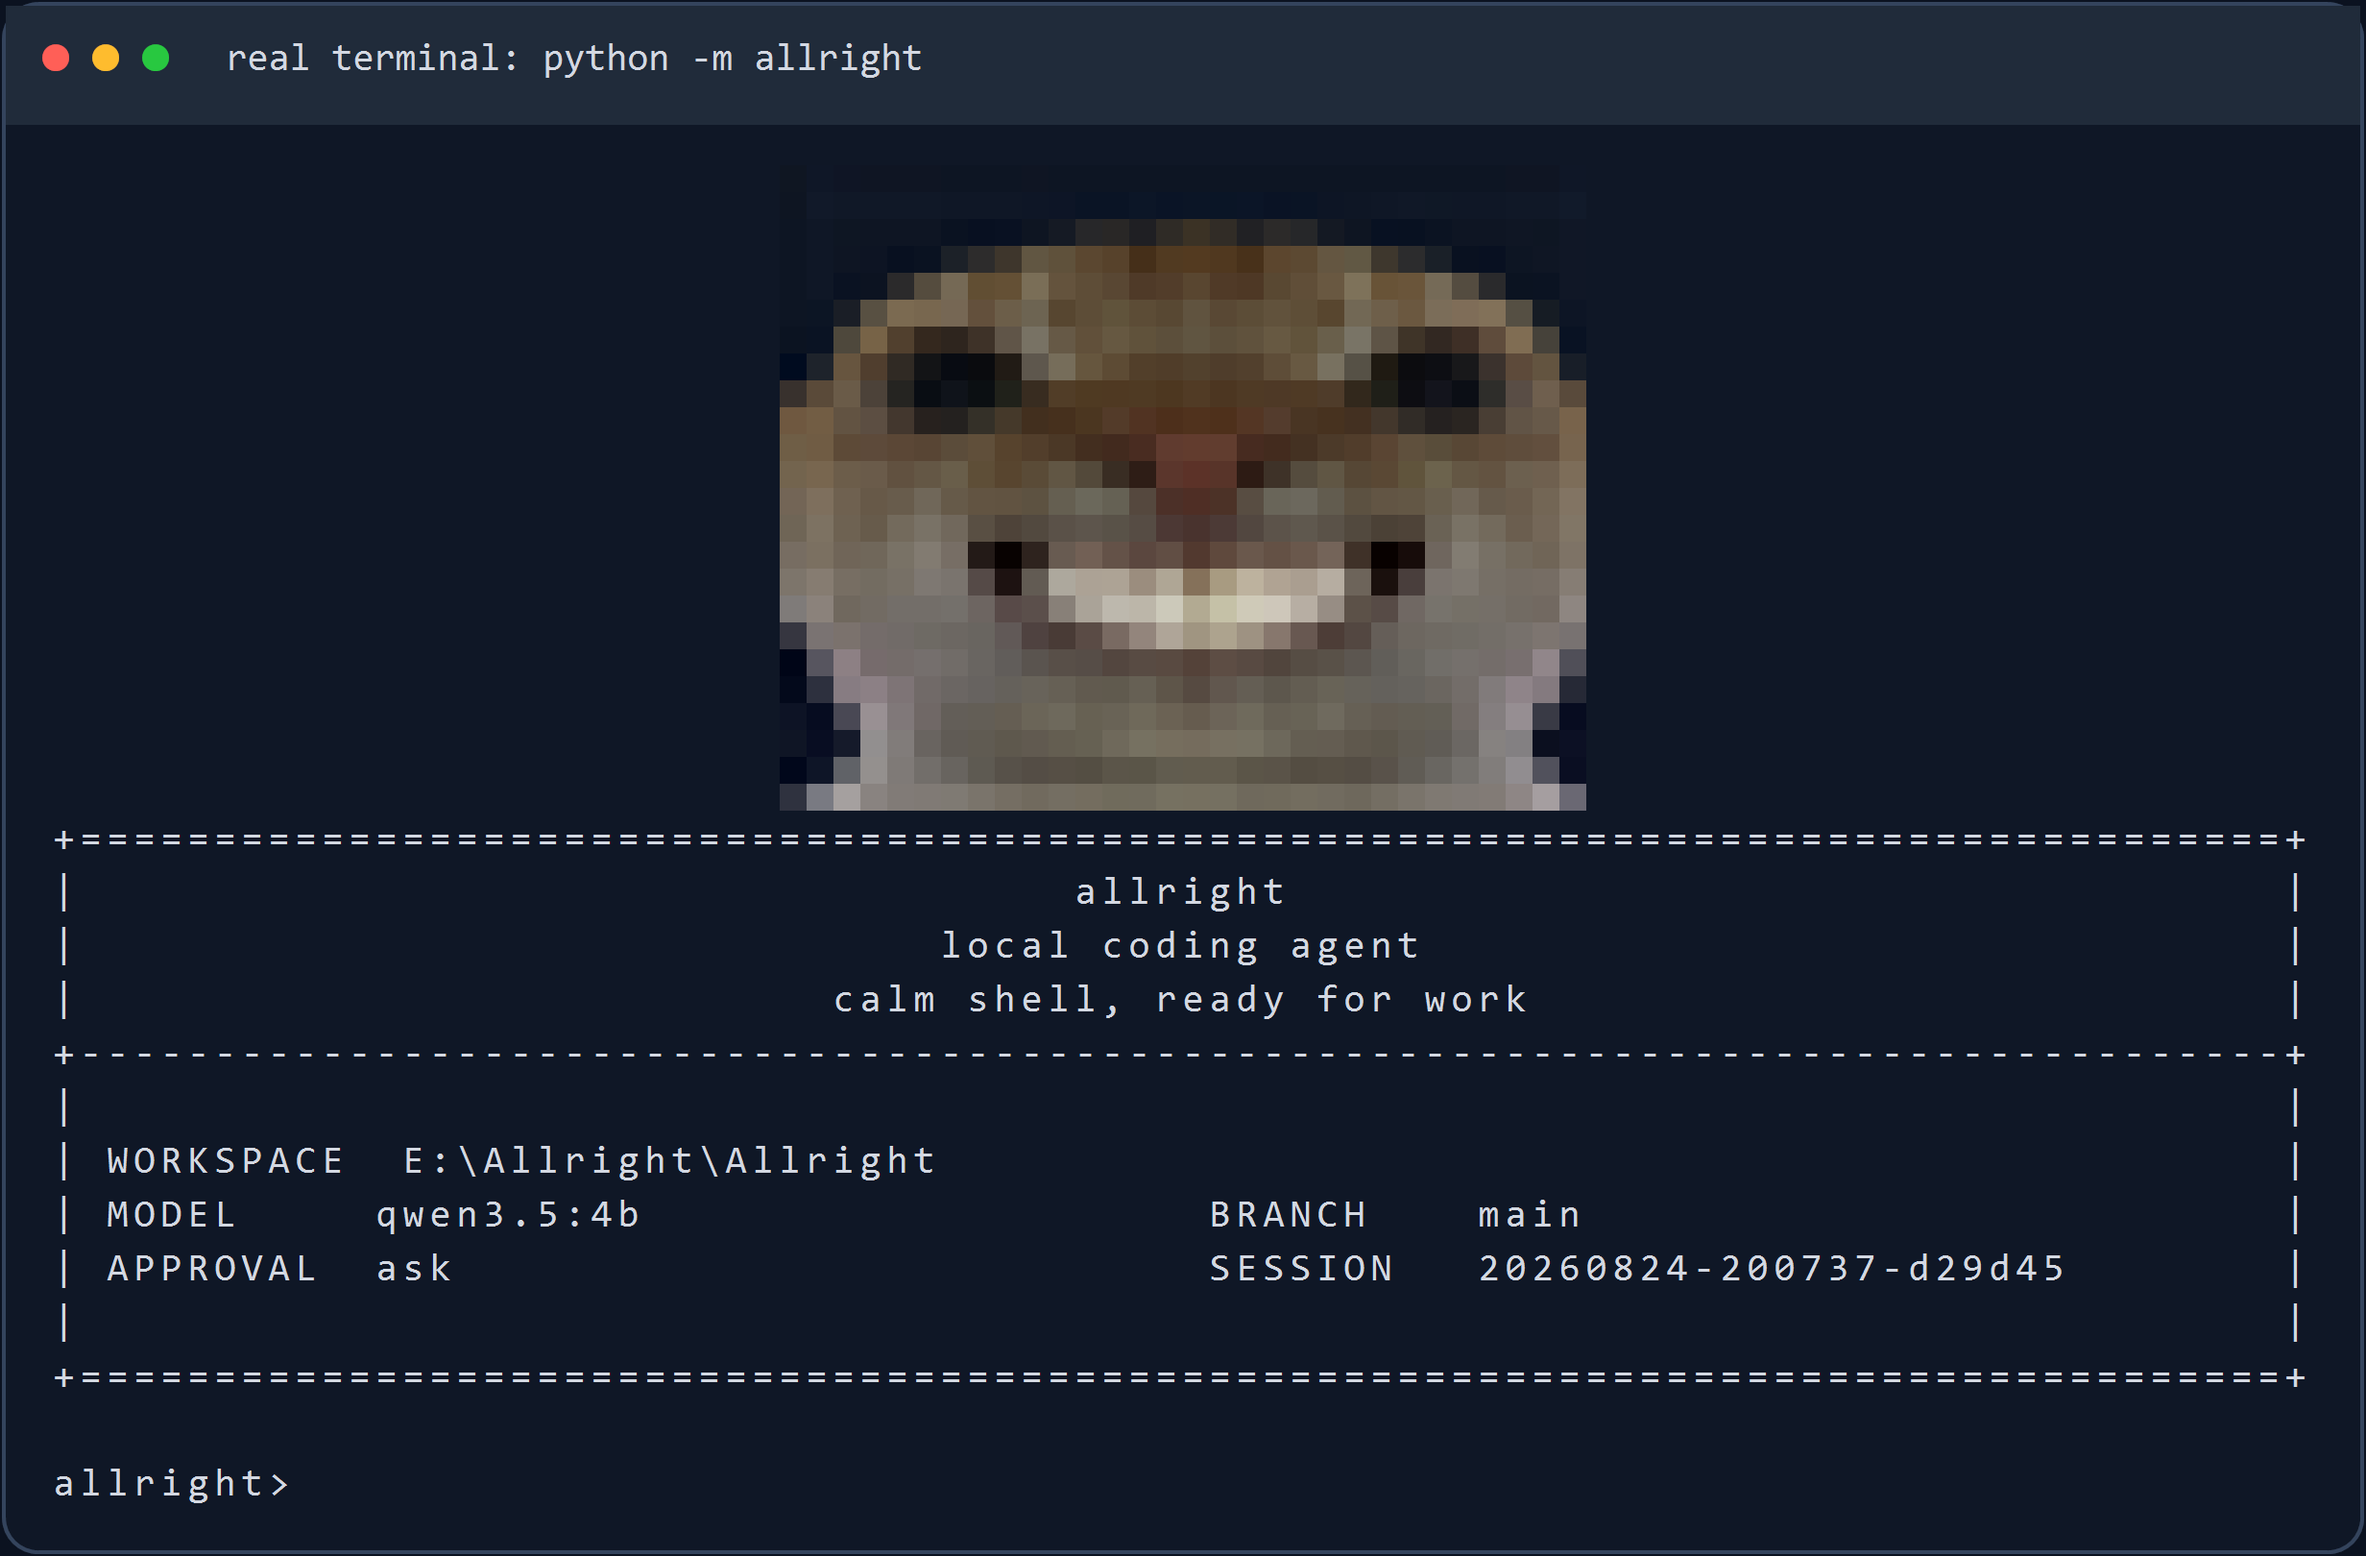
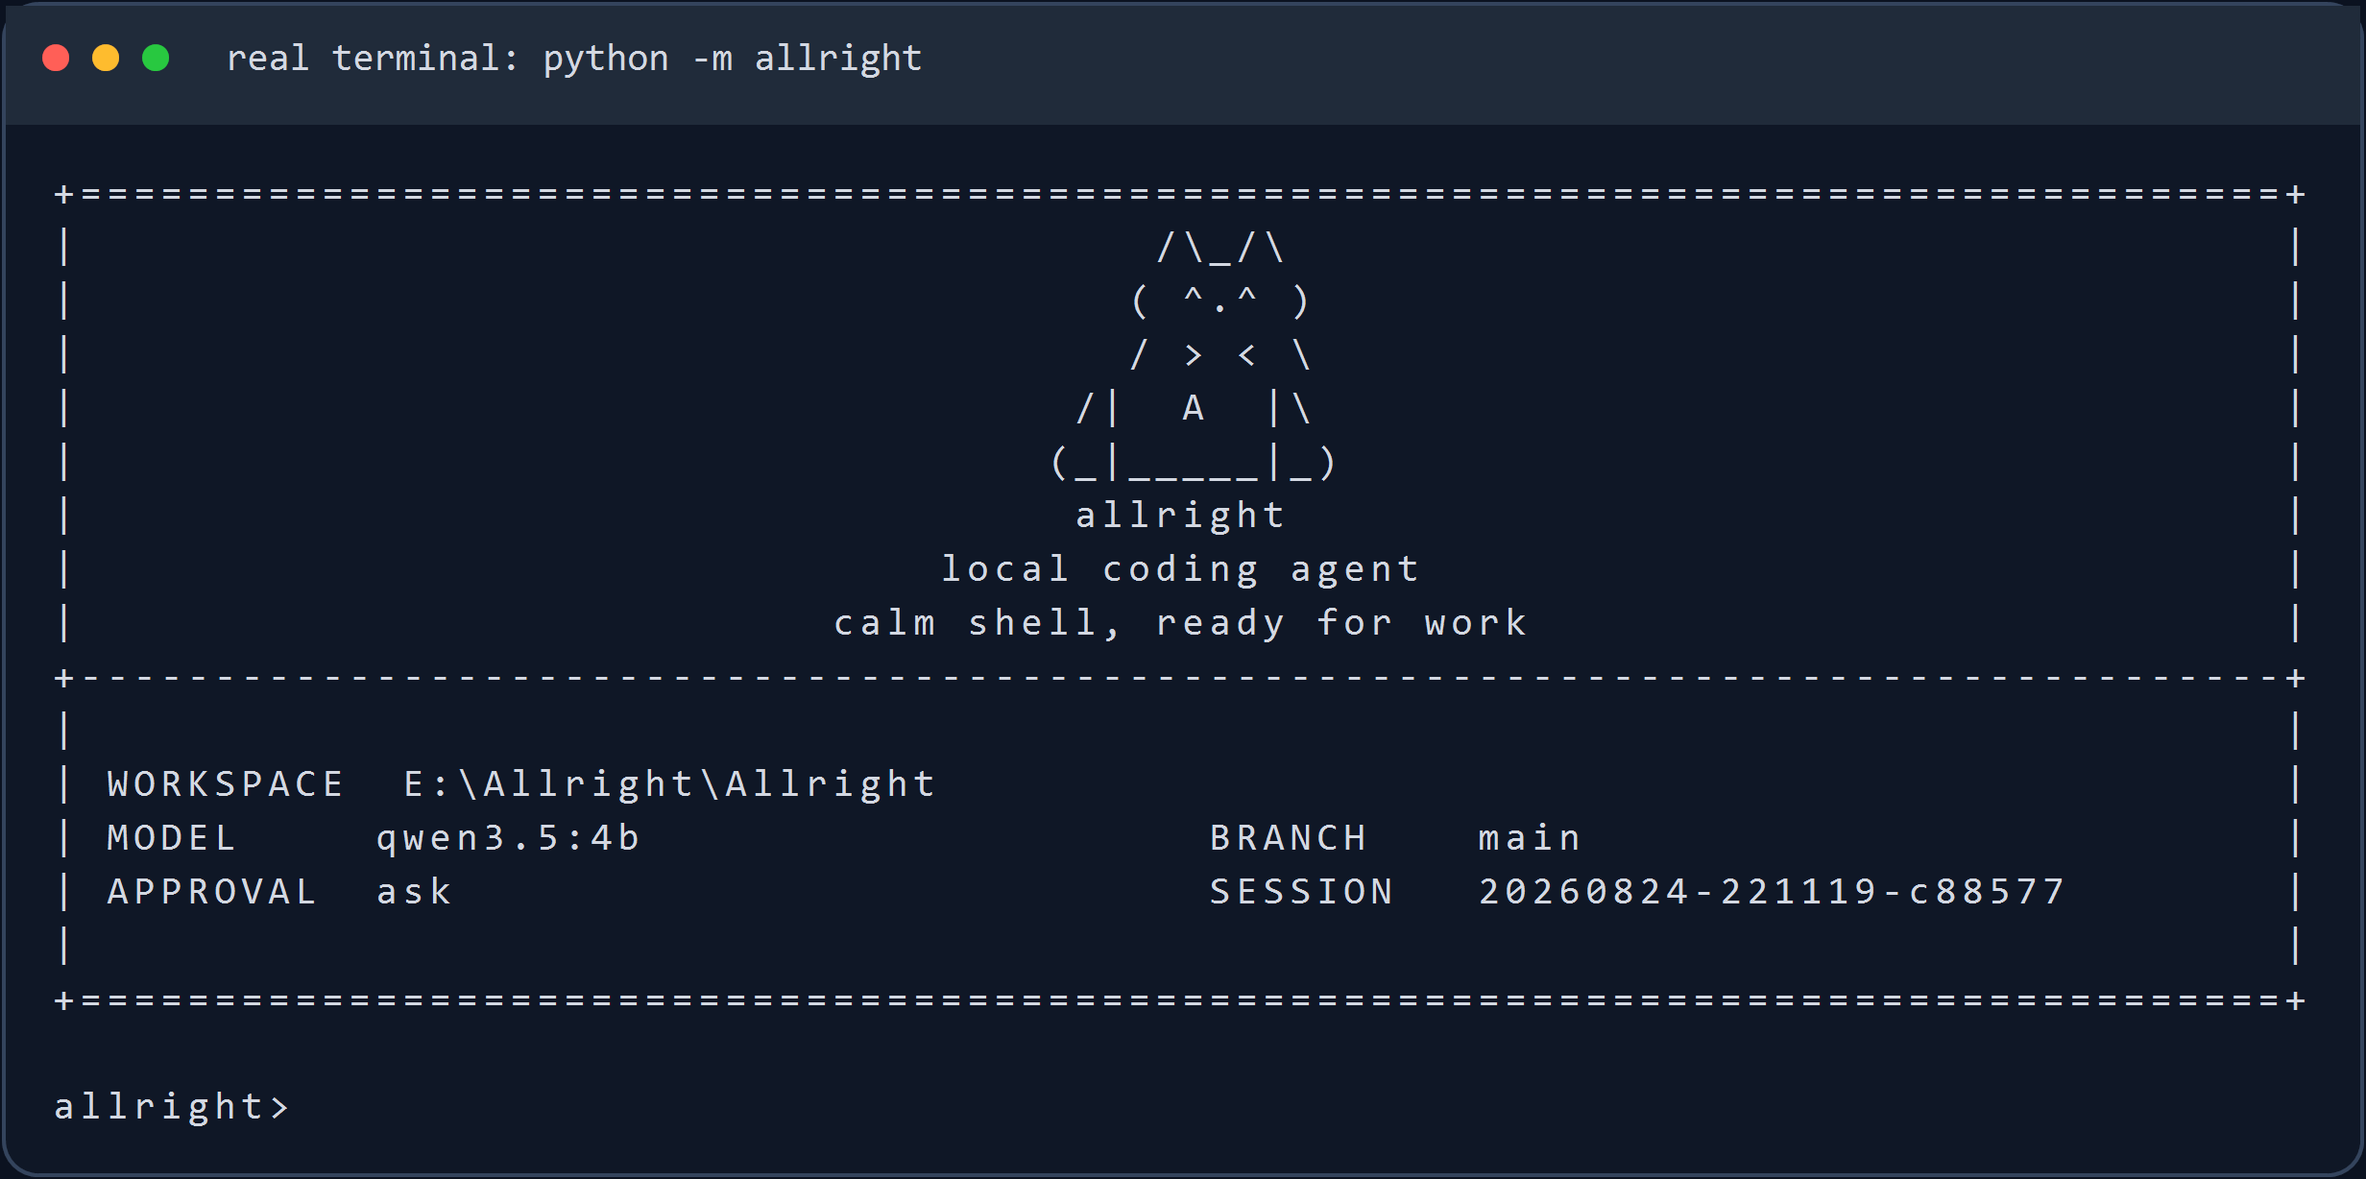
feat: replace image mascots with ASCII cat

diff --git a/allright/mascot.py b/allright/mascot.py
@@ -1,17 +1,38 @@
-"""Three-state terminal mascot rendering for the Allright CLI."""
+"""Three-state ASCII cat mascot rendering for the Allright CLI."""
 
 from __future__ import annotations
 
-import base64
 import os
-import shutil
 import sys
-from pathlib import Path
 
 MASCOT_NORMAL = "normal"
 MASCOT_ERROR = "error"
 MASCOT_OFFLINE = "offline"
 MASCOT_STATES = (MASCOT_NORMAL, MASCOT_ERROR, MASCOT_OFFLINE)
+
+MASCOT_ART = {
+    MASCOT_NORMAL: (
+        "    /\\_/\\",
+        "   ( ^.^ )",
+        "   / > < \\",
+        "  /|  A  |\\",
+        " (_|_____|_)",
+    ),
+    MASCOT_OFFLINE: (
+        " z  /\\_/\\",
+        "   ( -.- )",
+        "   /  ~  \\",
+        "  /|  A  |\\",
+        " (_|_____|_) x",
+    ),
+    MASCOT_ERROR: (
+        " !  /\\_/\\",
+        "   ( x.x )",
+        "   /  !  \\",
+        "  /|  A  |\\",
+        " (_|_____|_)",
+    ),
+}
 
 _OFFLINE_ERROR_MARKERS = (
     "api key",
@@ -32,11 +53,11 @@ _OFFLINE_ERROR_MARKERS = (
 )
 
 
-def mascot_asset_path(state: str, suffix: str = ".png") -> Path:
-    """Return the packaged asset path for one mascot state."""
+def mascot_art(state: str) -> str:
+    """Return the fixed-width ASCII cat for a mascot state."""
     if state not in MASCOT_STATES:
         raise ValueError(f"unknown mascot state: {state}")
-    return Path(__file__).parent / "assets" / "mascots" / f"{state}{suffix}"
+    return "\n".join(MASCOT_ART[state])
 
 
 def _error_chain_text(error: BaseException | None) -> str:
@@ -62,68 +83,20 @@ def classify_mascot_state(model_client=None, error: BaseException | None = None)
     return MASCOT_ERROR
 
 
-def _terminal_protocol(env) -> str:
-    override = str(env.get("ALLRIGHT_MASCOT_PROTOCOL", "")).strip().lower()
-    if override in {"off", "ansi", "kitty", "iterm"}:
-        return override
-    term = str(env.get("TERM", "")).lower()
-    term_program = str(env.get("TERM_PROGRAM", "")).lower()
-    if env.get("KITTY_WINDOW_ID") or "kitty" in term:
-        return "kitty"
-    if term_program in {"iterm.app", "wezterm"}:
-        return "iterm"
-    return "ansi"
-
-
-def _render_kitty(png_data: bytes) -> str:
-    encoded = base64.b64encode(png_data).decode("ascii")
-    chunks = [encoded[index : index + 4096] for index in range(0, len(encoded), 4096)]
-    rendered = []
-    for index, chunk in enumerate(chunks):
-        more = 1 if index < len(chunks) - 1 else 0
-        if index == 0:
-            rendered.append(f"\x1b_Ga=T,f=100,t=d,c=30,r=12,m={more};{chunk}\x1b\\")
-        else:
-            rendered.append(f"\x1b_Gm={more};{chunk}\x1b\\")
-    return "".join(rendered)
-
-
-def _render_iterm(png_data: bytes) -> str:
-    encoded = base64.b64encode(png_data).decode("ascii")
-    return f"\x1b]1337;File=inline=1;width=30;height=12;preserveAspectRatio=1:{encoded}\x07"
-
-
-def _mascot_indent(env, width: int = 30) -> str:
-    try:
-        columns = int(env.get("COLUMNS", ""))
-    except (TypeError, ValueError):
-        columns = 0
-    if columns <= 0:
-        columns = shutil.get_terminal_size((80, 20)).columns
-    return " " * max(0, (columns - width) // 2)
-
-
 def render_mascot(state: str, stream=None, env=None) -> str:
-    """Render a mascot using a native image protocol or packaged ANSI fallback."""
+    """Render a portable ASCII mascot without terminal image protocols."""
     if state not in MASCOT_STATES:
         raise ValueError(f"unknown mascot state: {state}")
     stream = stream or sys.stdout
     env = os.environ if env is None else env
-    protocol = _terminal_protocol(env)
-    if protocol == "off" or str(env.get("ALLRIGHT_MASCOT", "")).lower() in {"0", "false", "off"}:
+    disabled = str(env.get("ALLRIGHT_MASCOT", "")).lower() in {"0", "false", "off"}
+    legacy_protocol_off = str(env.get("ALLRIGHT_MASCOT_PROTOCOL", "")).lower() == "off"
+    if disabled or legacy_protocol_off:
         return ""
     force = str(env.get("ALLRIGHT_FORCE_MASCOT", "")).lower() in {"1", "true", "on"}
     if not force and not getattr(stream, "isatty", lambda: False)():
         return ""
-    indent = _mascot_indent(env)
-    if protocol == "kitty":
-        return indent + _render_kitty(mascot_asset_path(state).read_bytes())
-    if protocol == "iterm":
-        return indent + _render_iterm(mascot_asset_path(state).read_bytes())
-    if env.get("NO_COLOR") or str(env.get("TERM", "")).lower() == "dumb":
-        return f"[allright mascot: {state}]"
-    ansi = mascot_asset_path(state, ".ansi").read_text(encoding="utf-8").rstrip("\r\n")
-    return "\n".join(indent + line for line in ansi.splitlines())
+    return mascot_art(state)
 
 
 def print_mascot(state: str, stream=None, env=None) -> None:

diff --git a/tests/test_mascot.py b/tests/test_mascot.py
@@ -7,7 +7,7 @@ from allright.mascot import (
     MASCOT_NORMAL,
     MASCOT_OFFLINE,
     classify_mascot_state,
-    mascot_asset_path,
+    mascot_art,
     render_mascot,
 )
 from allright.providers.clients import AnthropicCompatibleModelClient, OpenAICompatibleModelClient
@@ -18,10 +18,15 @@ class ApiClient:
         self.api_key = api_key
 
 
-def test_mascot_assets_are_packaged_for_each_state():
+def test_ascii_mascot_exists_for_each_state():
     for state in (MASCOT_NORMAL, MASCOT_ERROR, MASCOT_OFFLINE):
-        assert mascot_asset_path(state).is_file()
-        assert mascot_asset_path(state, ".ansi").is_file()
+        art = mascot_art(state)
+        assert len(art.splitlines()) == 5
+        assert "A" in art
+
+    assert "^.^" in mascot_art(MASCOT_NORMAL)
+    assert "-.-" in mascot_art(MASCOT_OFFLINE)
+    assert "x.x" in mascot_art(MASCOT_ERROR)
 
 
 def test_mascot_state_uses_offline_for_missing_api_key_or_network_error():
@@ -35,19 +40,16 @@ def test_mascot_state_uses_error_for_other_failures():
     assert classify_mascot_state(ApiClient("sk-test")) == MASCOT_NORMAL
 
 
-def test_ansi_mascot_can_be_forced_for_snapshot_or_pipe_output():
+def test_ascii_mascot_can_be_forced_for_snapshot_or_pipe_output():
     rendered = render_mascot(
         MASCOT_NORMAL,
         stream=StringIO(),
         env={
             "ALLRIGHT_FORCE_MASCOT": "1",
-            "ALLRIGHT_MASCOT_PROTOCOL": "ansi",
-            "COLUMNS": "80",
         },
     )
-    assert "\x1b[38;2;" in rendered
-    assert "▀" in rendered
-    assert all(line.startswith(" " * 25) for line in rendered.splitlines())
+    assert rendered == mascot_art(MASCOT_NORMAL)
+    assert "\x1b" not in rendered
 
 
 def test_mascot_stays_quiet_for_non_tty_and_supports_opt_out():
@@ -56,7 +58,7 @@ def test_mascot_stays_quiet_for_non_tty_and_supports_opt_out():
         render_mascot(
             MASCOT_NORMAL,
             stream=StringIO(),
-            env={"ALLRIGHT_FORCE_MASCOT": "1", "ALLRIGHT_MASCOT_PROTOCOL": "off"},
+            env={"ALLRIGHT_FORCE_MASCOT": "1", "ALLRIGHT_MASCOT": "off"},
         )
         == ""
     )

diff --git a/allright/cli.py b/allright/cli.py
@@ -12,7 +12,7 @@ import sys
 import textwrap
 
 from .config import load_project_env, provider_env
-from .mascot import MASCOT_NORMAL, classify_mascot_state, print_mascot
+from .mascot import MASCOT_NORMAL, classify_mascot_state, mascot_art, print_mascot, render_mascot
 from .providers.clients import AnthropicCompatibleModelClient, OllamaModelClient, OpenAICompatibleModelClient
 from .runtime import Allright, SessionStore
 from .workspace import WorkspaceContext, middle
@@ -176,7 +176,7 @@ def _build_model_client(args):
     )
 
 
-def build_welcome(agent, model, host, mascot_state=MASCOT_NORMAL):
+def build_welcome(agent, model, host, mascot_state=MASCOT_NORMAL, mascot_text=None):
     width = max(68, min(shutil.get_terminal_size((80, 20)).columns, 84))
     inner = width - 4
     gap = 3
@@ -203,8 +203,13 @@ def build_welcome(agent, model, host, mascot_state=MASCOT_NORMAL):
         right = cell(right_label, right_value, right_width)
         return f"| {left}{' ' * gap}{right} |"
 
+    if mascot_text is None:
+        mascot_text = mascot_art(mascot_state)
+    mascot_rows = [center(art_line) for art_line in mascot_text.splitlines()] if mascot_text else []
+
     line = divider("=")
     rows = [
+        *mascot_rows,
         center(WELCOME_NAME),
         center(WELCOME_SUBTITLE),
         center(WELCOME_STATUSES[mascot_state]),
@@ -311,8 +316,8 @@ def main(argv=None):
     model = getattr(agent.model_client, "model", getattr(args, "model", DEFAULT_OLLAMA_MODEL))
     host = getattr(agent.model_client, "host", getattr(agent.model_client, "base_url", getattr(args, "host", DEFAULT_OLLAMA_HOST)))
     mascot_state = classify_mascot_state(agent.model_client)
-    print_mascot(mascot_state)
-    print(build_welcome(agent, model=model, host=host, mascot_state=mascot_state))
+    mascot_text = render_mascot(mascot_state)
+    print(build_welcome(agent, model=model, host=host, mascot_state=mascot_state, mascot_text=mascot_text))
 
     if args.prompt:
         # one-shot 模式：只跑一次 ask，不进入 REPL 循环。

diff --git a/tests/test_allright.py b/tests/test_allright.py
@@ -295,6 +295,7 @@ def test_welcome_screen_keeps_box_shape_for_long_paths(tmp_path):
     assert "MINI CODING AGENT" not in welcome
     assert "allright" in welcome
     assert "local coding agent" in welcome
+    assert welcome.index("/\\_/\\") < welcome.index("allright")
     assert "// READY" not in welcome
     assert "SLASH" not in welcome
     assert "READY      " not in welcome
@@ -307,6 +308,15 @@ def test_welcome_screen_keeps_box_shape_for_long_paths(tmp_path):
         mascot_state="offline",
     )
     assert "api key or network unavailable" in offline_welcome
+    assert "-.-" in offline_welcome
+
+    welcome_without_mascot = build_welcome(
+        agent,
+        model="qwen3.5:4b",
+        host="http://127.0.0.1:11434",
+        mascot_text="",
+    )
+    assert "/\\_/\\" not in welcome_without_mascot
 
 
 def test_ollama_client_posts_expected_payload():

diff --git a/README.md b/README.md
@@ -49,19 +49,17 @@ REPL 内置命令与会话路径：
 
 Allright 会根据当前运行状态切换启动吉祥物：
 
-- normal：provider 配置完整、程序正常运行时显示咧嘴猫
-- offline：缺少 API Key，或模型请求遇到网络、超时、401/403 与鉴权问题时显示发呆猫
-- error：模型响应解析等其他运行错误时显示受伤猫
+- normal：provider 配置完整、程序正常运行时显示开心猫
+- offline：缺少 API Key，或模型请求遇到网络、超时、401/403 与鉴权问题时显示休眠猫
+- error：模型响应解析等其他运行错误时显示故障猫
 
-Kitty、iTerm2 和 WezTerm 会优先使用原生终端图片协议；其他现代终端使用由同一张 PNG 生成的 ANSI true-color 字符图。重定向输出或 CI 中默认不显示吉祥物，避免污染日志。
+吉祥物使用纯 ASCII 符号绘制，不再依赖图片协议或终端真彩色能力。启动时它位于欢迎面板内、紧贴在 `allright` 标题正上方；重定向输出或 CI 中默认不显示，避免污染日志。
 
 可以通过环境变量控制渲染：
 
     # 禁用吉祥物
     ALLRIGHT_MASCOT=off allright
 
-    # 强制选择渲染协议：ansi / kitty / iterm / off
-    ALLRIGHT_MASCOT_PROTOCOL=ansi allright
 
 ## 安装
 
